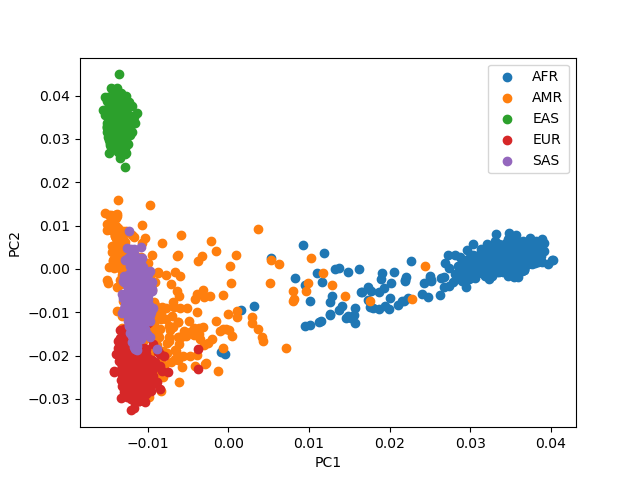
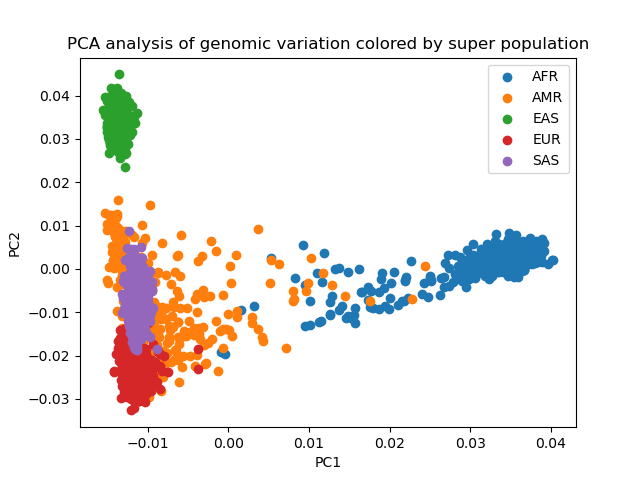
update homework

Changed region(s): [[0.0938, 0.0625, 0.9062, 0.125]]

diff --git a/day3-homework/README.md b/day3-homework/README.md
@@ -28,6 +28,7 @@ plt.savefig("ex2_b.png")
 
 plt.show()
 
+There are three clusters, which may indicate genetic similarity within clusters.
 
 exercise 3
 
@@ -46,10 +47,10 @@ for sex in unique_gender:
     row = np.where(eigenvec["gender"] == sex)
     subset_data = eigenvec[row]
     ax.scatter(subset_data["x"], subset_data["y"], label = sex)
-    ax.set_xlabel("PC1")
-    ax.set_ylabel("PC2")
-    ax.legend()
-    ax.title.set_text('by sex')
+ax.set_xlabel("PC1")
+ax.set_ylabel("PC2")
+ax.legend()
+ax.title.set_text('PCA analysis of genomic variation colored by sex')
 plt.savefig("ex3_a.png")
 plt.show()
 
@@ -60,9 +61,10 @@ for superpop in unique_super:
     row = np.where(eigenvec["super_pop"] == superpop)
     subset_data = eigenvec[row] 
     ax.scatter(subset_data["x"], subset_data["y"], label = superpop)
-    ax.set_xlabel("PC1")
-    ax.set_ylabel("PC2")
-    ax.legend()
+ax.set_xlabel("PC1")
+ax.set_ylabel("PC2")
+ax.legend()
+ax.title.set_text('PCA analysis of genomic variation colored by super population')
 plt.savefig("ex3_b.png")
 plt.show()
 
@@ -73,8 +75,11 @@ for pop in unique_pop:
     row = np.where(eigenvec["pop"] == pop)
     subset_data = eigenvec[row] 
     ax.scatter(subset_data["x"], subset_data["y"], label = pop)
-    ax.set_xlabel("PC1")
-    ax.set_ylabel("PC2")
-    ax.legend()
+ax.set_xlabel("PC1")
+ax.set_ylabel("PC2")
+ax.legend(bbox_to_anchor=(1, 1))
+ax.title.set_text('PCA analysis of genomic variation colored by population')
+plt.tight_layout()
 plt.savefig("ex3_c.png")
 plt.show()
+
